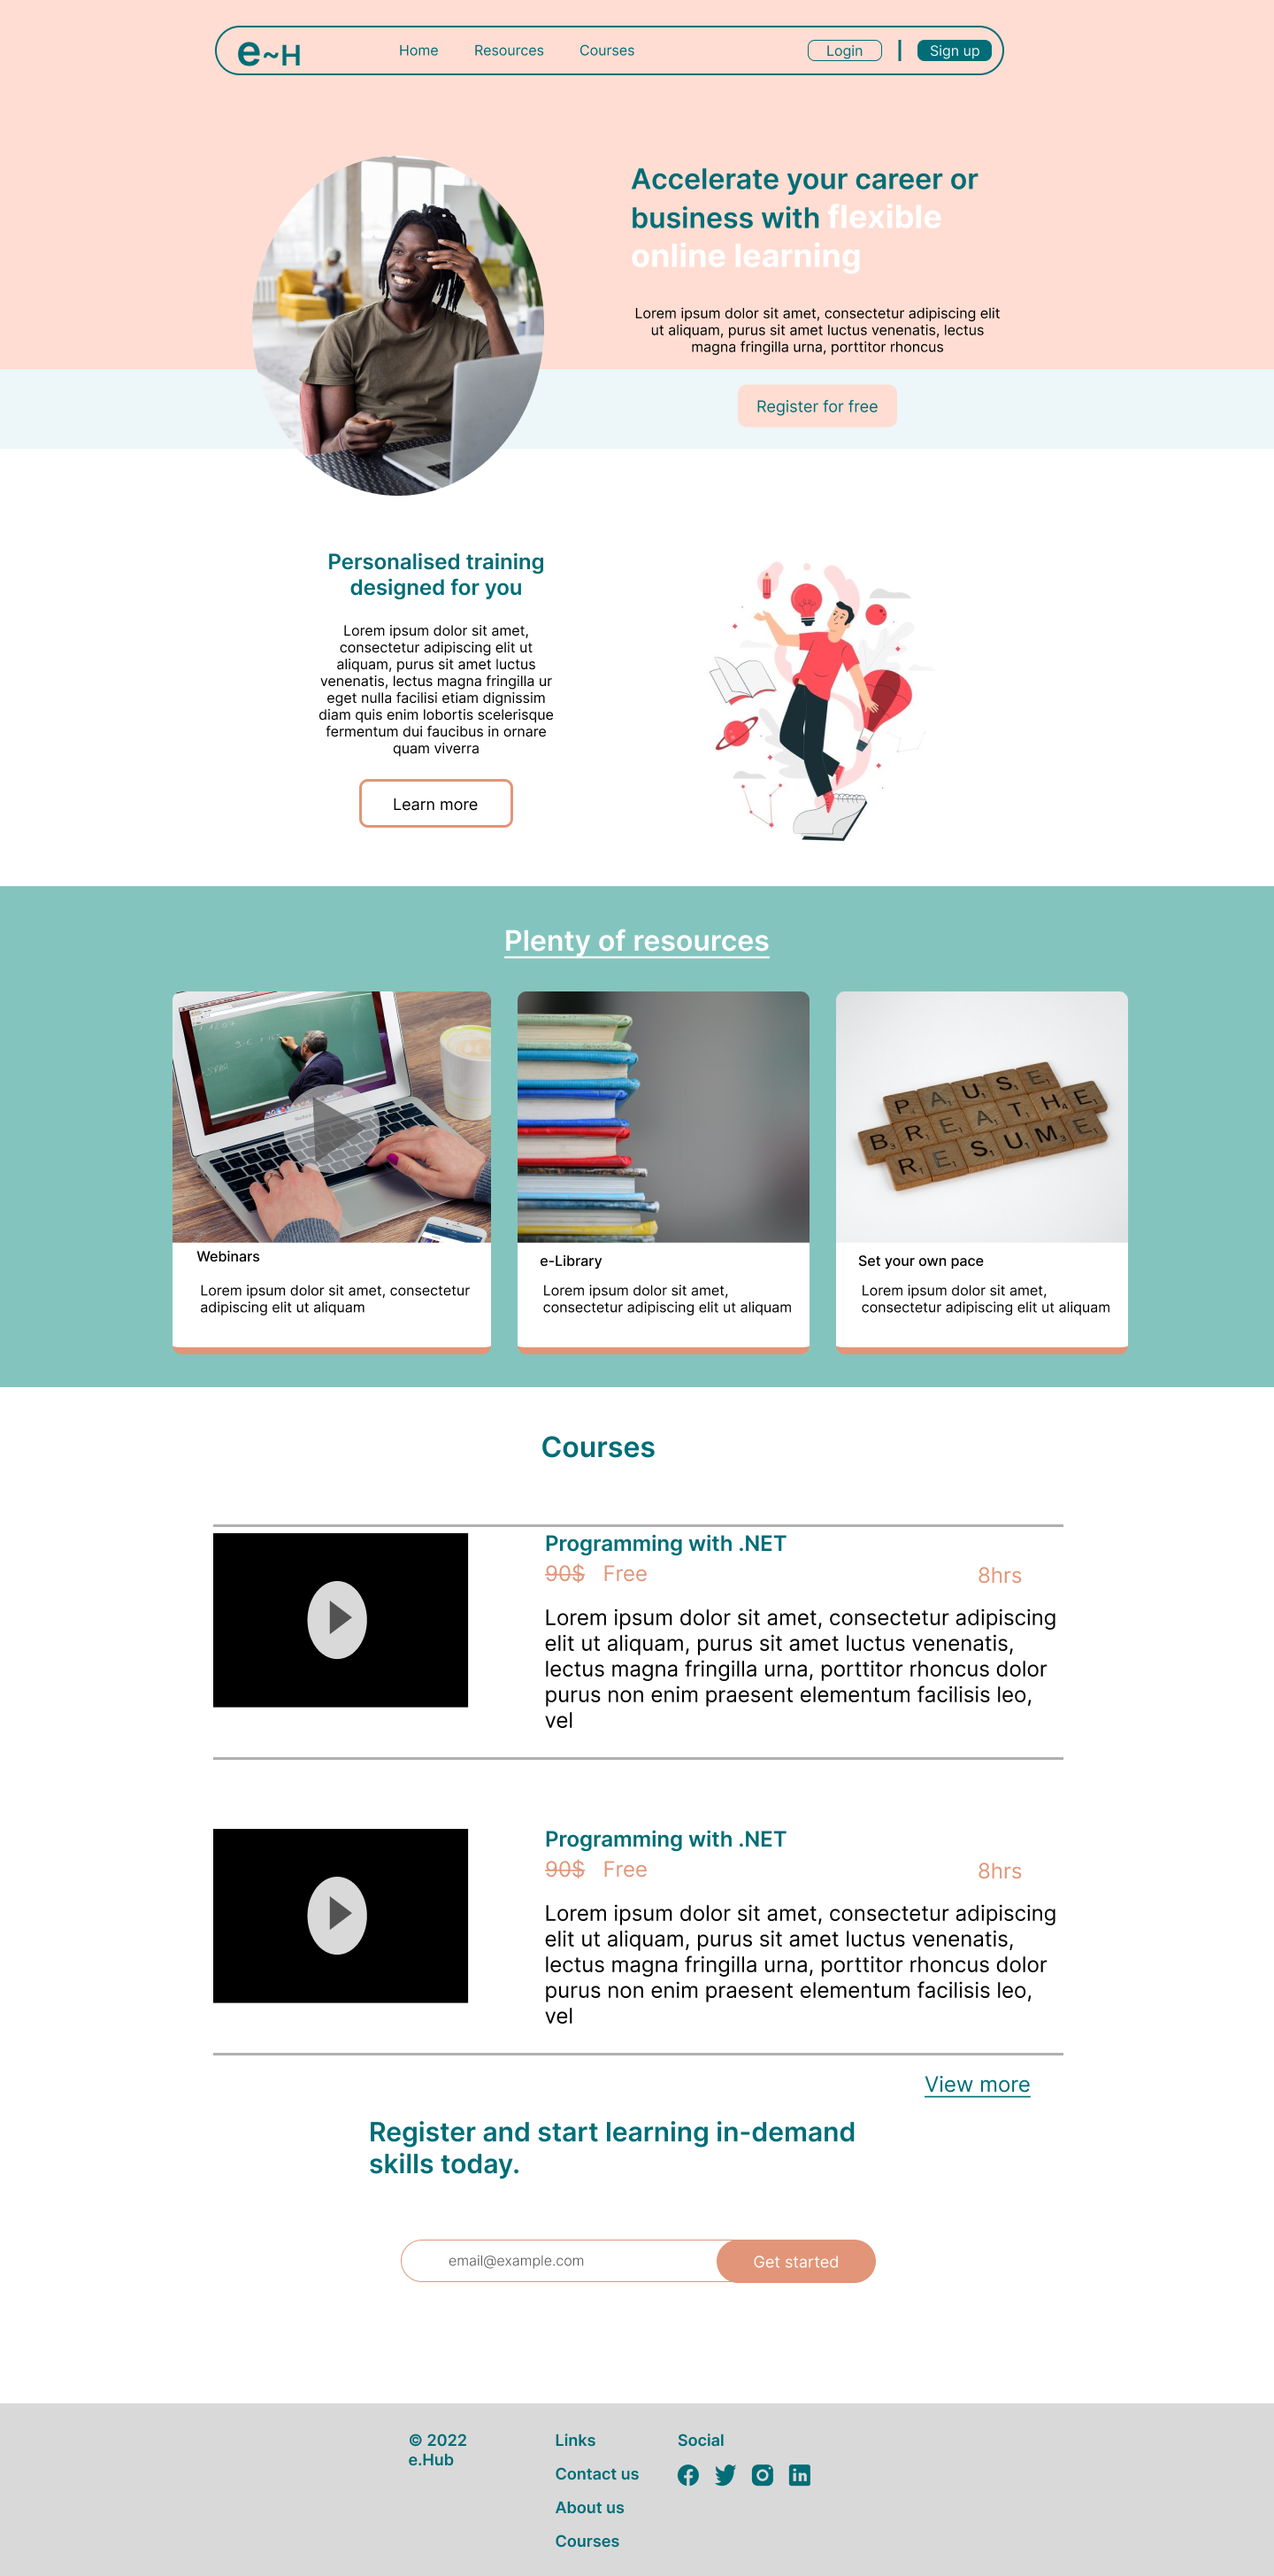
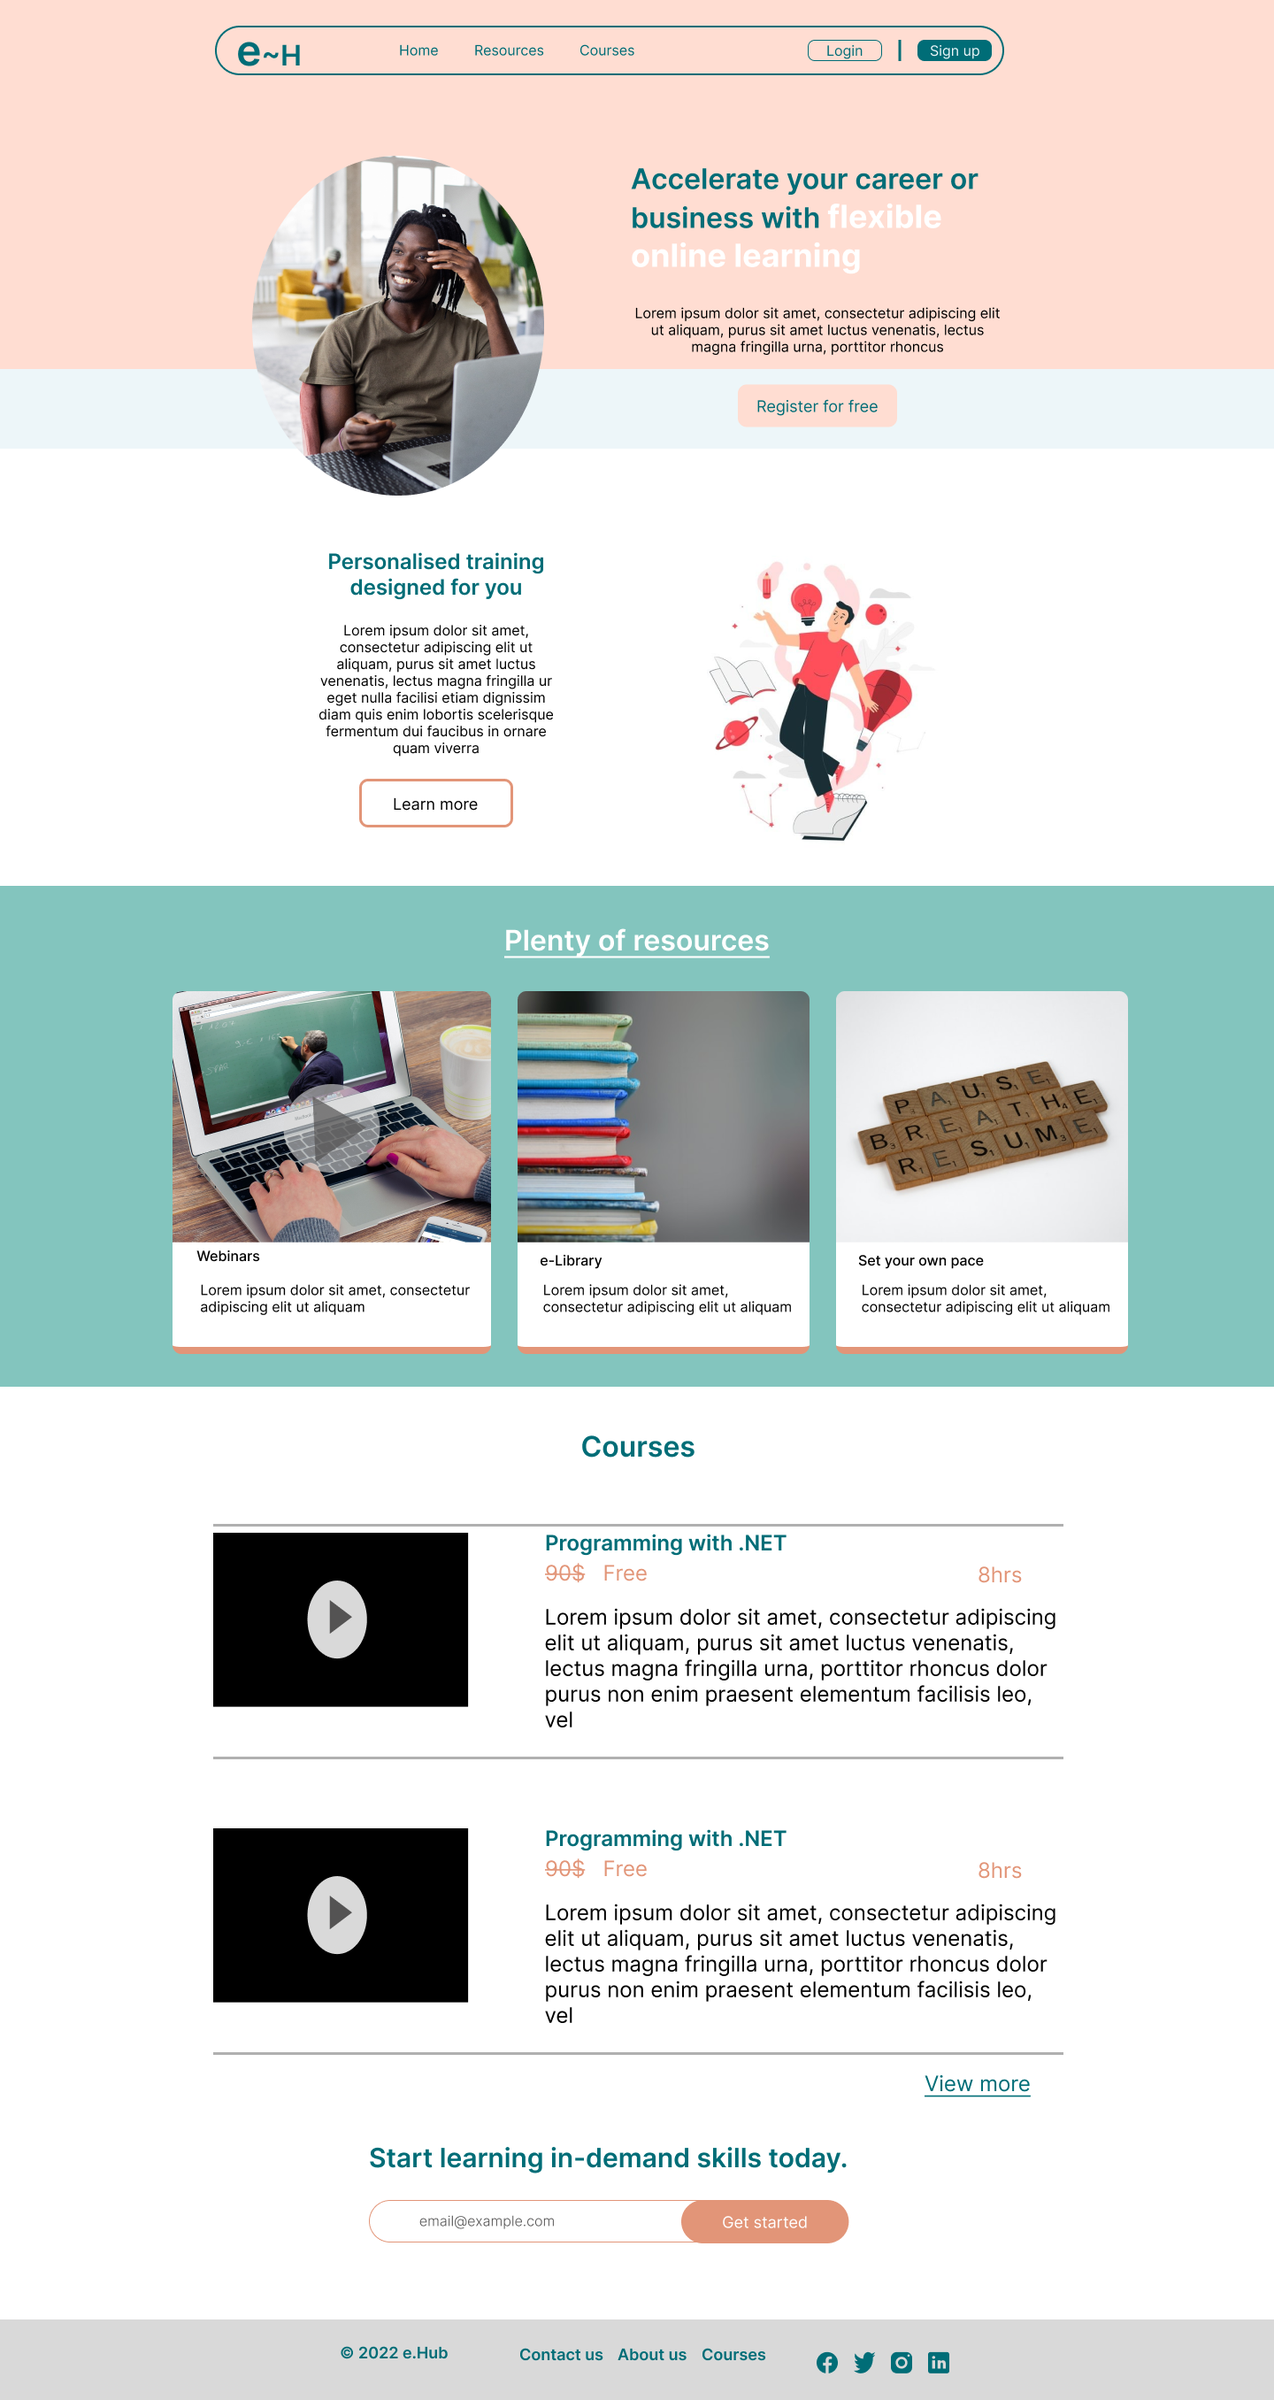
updates files

diff --git a/index.html b/index.html
@@ -4,7 +4,7 @@
     <meta charset="UTF-8">
     <meta http-equiv="X-UA-Compatible" content="IE=edge">
     <meta name="viewport" content="width=device-width, initial-scale=1.0">
-    <link rel="stylesheet" href="/css/style.css">
+    <link rel="stylesheet" href="./css/style.css">
     <title>e-Hub landing page</title>
 </head>
 <body>
@@ -115,7 +115,7 @@
                     </div>
                     </div>
                     <form action="" id="form">
-                        <h3>Register and start learning in-demand skills today.</h3>
+                        <h3>Start learning in-demand skills today.</h3>
                         <div class="form-control">
                             <input id="email" type="email" placeholder="email@example.com" required>
                             <button type="submit">Get started</button>
@@ -142,7 +142,7 @@
     </footer>
 
 
-    <script src="/js/script.js"></script>
+    <script src="./js/script.js"></script>
     <script src="https://kit.fontawesome.com/03b9bb3b2d.js" crossorigin="anonymous"></script>
 </body>
 </html>

diff --git a/css/style.css b/css/style.css
@@ -144,8 +144,8 @@ header {
     top: 10vh;
     left: 30%;
     transform: translateX(-30%);
-    width: 350px;
-    height: 250px;
+    width: 330px;
+    height: 380px;
     border-radius: 10px;
     z-index: 2;
 }
